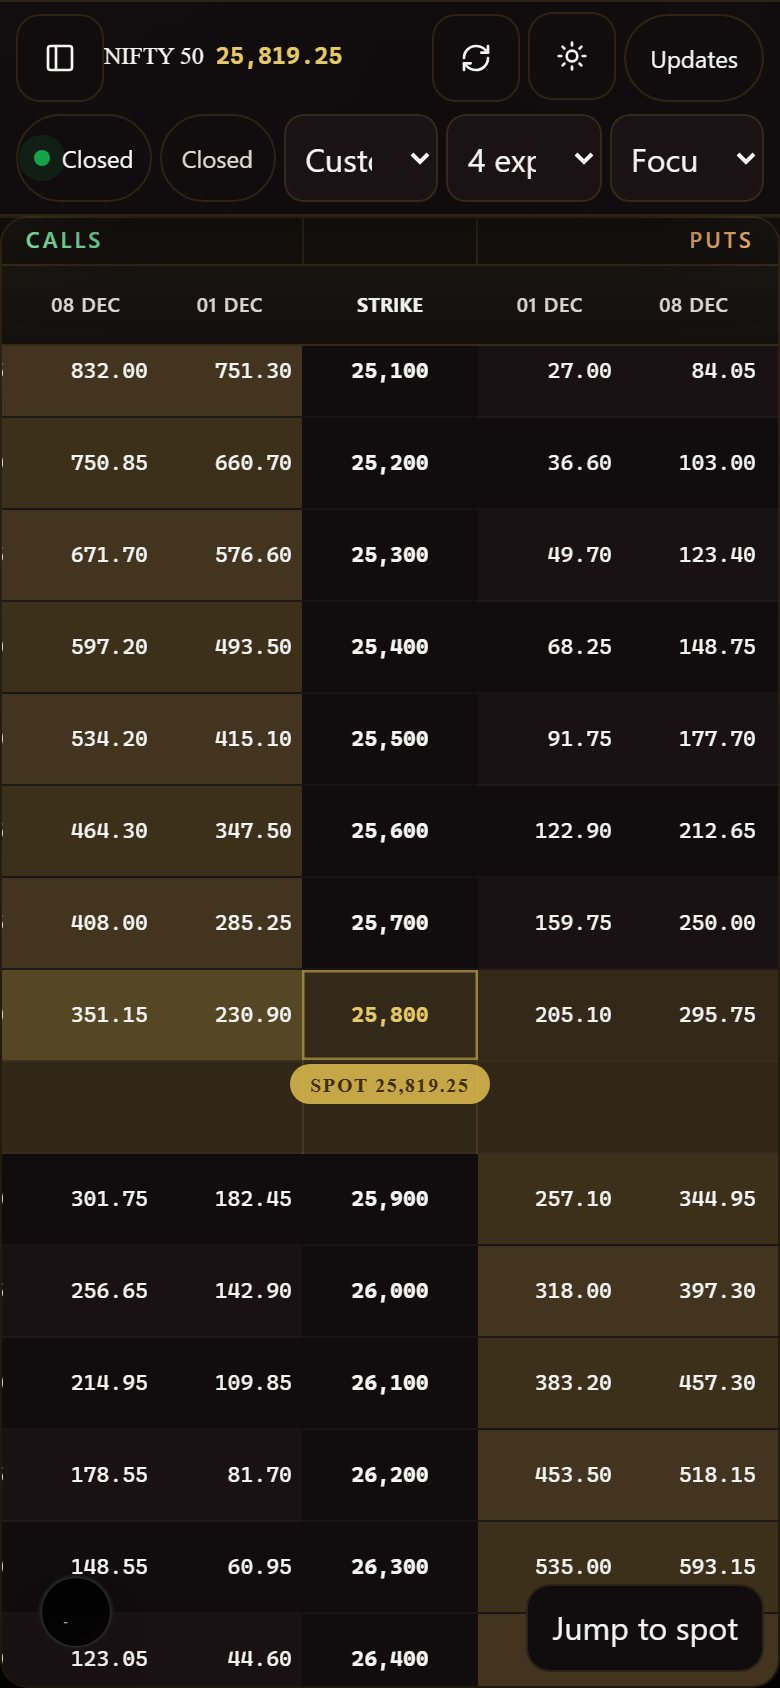
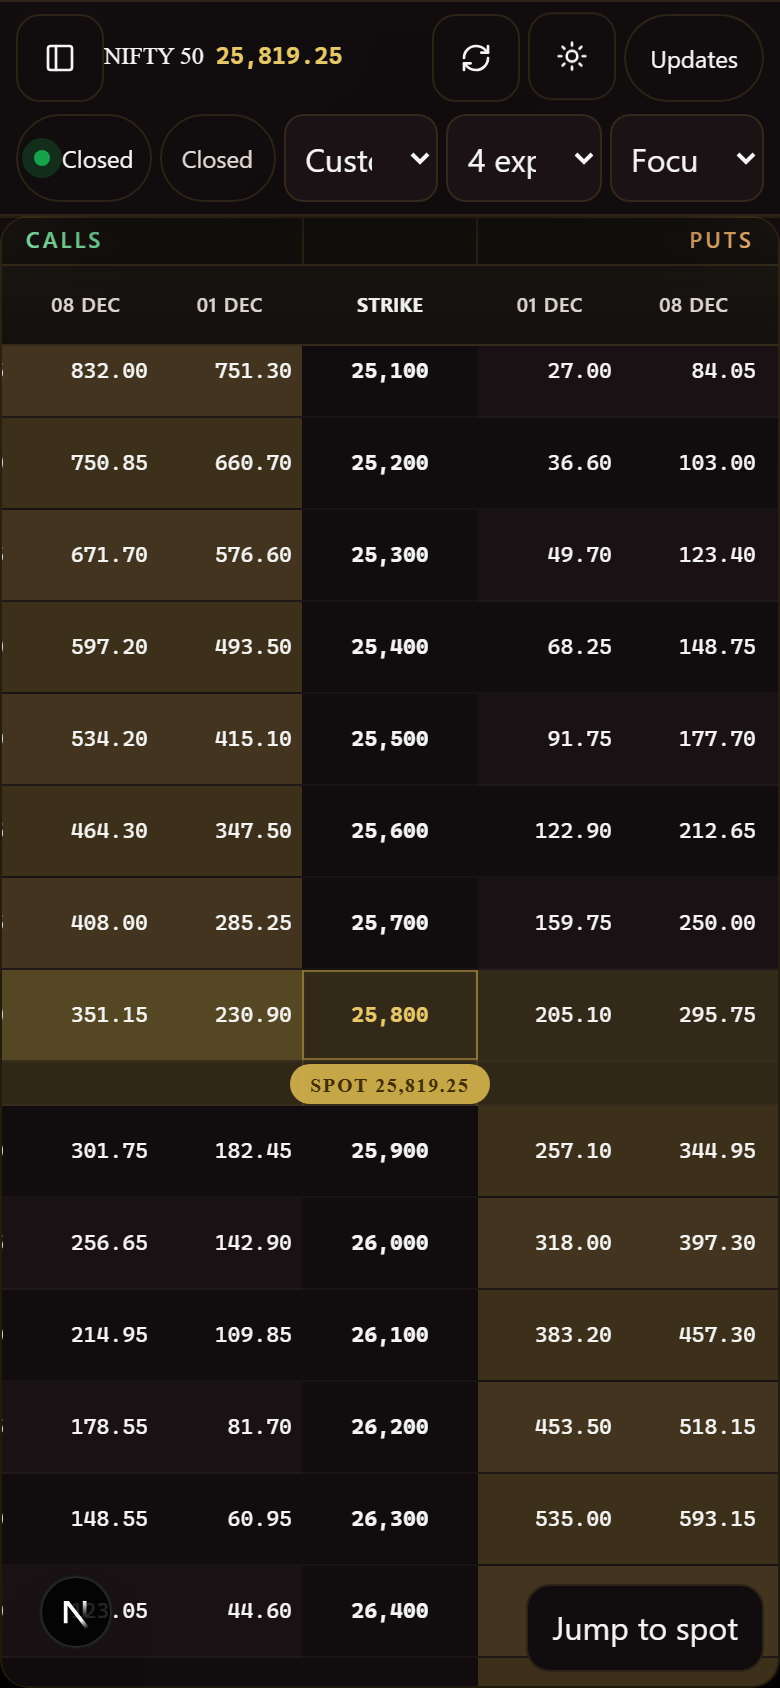
Show the spot bar when an equity spot lands on a listed strike.

Changed region(s): [[0.0, 0.6469, 0.6154, 0.9858], [0.8615, 0.6777, 0.9846, 0.955], [0.6769, 0.6777, 0.8, 0.955]]

diff --git a/web/src/components/option-chain-table.tsx b/web/src/components/option-chain-table.tsx
@@ -2,7 +2,7 @@
 
 import { Fragment, useEffect, useLayoutEffect, useMemo, useRef, useState, type ReactNode } from "react";
 import { columnHint, columnLabel, putColumns, visibleColumns } from "@/lib/columns";
-import { focusStrikes } from "@/lib/display";
+import { focusStrikes, spotSlot } from "@/lib/display";
 import { yearFractionToExpiry } from "@/lib/expiry";
 import { blackScholes } from "@/lib/greeks";
 import { centerBook, chainOverflows, InwardChain, useChainWidth } from "@/components/inward-chain";
@@ -161,16 +161,17 @@ export function OptionChainTable({
     centerBook(spotStrike);
   }, [density, pin, rows.length, snapshot.expiry, snapshot.symbol, spotStrike]);
 
+  const spotPlace = spotSlot(rows.map((row) => row.strike), snapshot.spot);
   const lineProps = (row: ChainRow, index: number) => {
-    const previous = rows[index - 1];
     const spot = snapshot.spot;
-    const showSpot = spot != null && previous != null && previous.strike < spot && row.strike > spot;
+    const showSpot = spotPlace?.index === index && spotPlace.place === "before";
+    const showSpotAfter = spotPlace?.index === index && spotPlace.place === "after";
     const atSpot = row.strike === spotStrike;
     const callQuiet = !row.ce.volume;
     const putQuiet = !row.pe.volume;
     const itmCall = spot != null && row.strike < spot;
     const itmPut = spot != null && row.strike > spot;
-    return { previous, spot, showSpot, atSpot, callQuiet, putQuiet, itmCall, itmPut };
+    return { spot, showSpot, showSpotAfter, atSpot, callQuiet, putQuiet, itmCall, itmPut };
   };
 
   if (pin) {
@@ -192,7 +193,7 @@ export function OptionChainTable({
           </th>
         ))}
         rows={rows.map((row, index) => {
-          const { spot, showSpot, atSpot, callQuiet, putQuiet, itmCall, itmPut } = lineProps(row, index);
+          const { spot, showSpot, showSpotAfter, atSpot, callQuiet, putQuiet, itmCall, itmPut } = lineProps(row, index);
           return {
             key: String(row.strike),
             id: `strike-${row.strike}`,
@@ -210,6 +211,7 @@ export function OptionChainTable({
               if (event.key === "Enter") onSelect(row);
             },
             spot: showSpot ? `Spot ${formatPrice(spot)}` : null,
+            spotAfter: showSpotAfter ? `Spot ${formatPrice(spot)}` : null,
             strike: formatNumber(row.strike, 0),
             call: callCols.map((key) => (
               <SideCell
@@ -283,14 +285,7 @@ export function OptionChainTable({
         </thead>
         <tbody>
           {rows.map((row, index) => {
-            const previous = rows[index - 1];
-            const spot = snapshot.spot;
-            const showSpot = spot != null && previous != null && previous.strike < spot && row.strike > spot;
-            const atSpot = row.strike === spotStrike;
-            const callQuiet = !row.ce.volume;
-            const putQuiet = !row.pe.volume;
-            const itmCall = spot != null && row.strike < spot;
-            const itmPut = spot != null && row.strike > spot;
+            const { spot, showSpot, showSpotAfter, atSpot, callQuiet, putQuiet, itmCall, itmPut } = lineProps(row, index);
             const span = callCols.length + peCols.length + 1;
             return (
               <Fragment key={row.strike}>
@@ -351,6 +346,13 @@ export function OptionChainTable({
                     />
                   ))}
                 </tr>
+                {showSpotAfter ? (
+                  <tr className="spot-marker" data-testid="spot-marker">
+                    <td colSpan={span}>
+                      <span>Spot {formatPrice(spot)}</span>
+                    </td>
+                  </tr>
+                ) : null}
               </Fragment>
             );
           })}

diff --git a/web/src/components/inward-chain.tsx b/web/src/components/inward-chain.tsx
@@ -11,6 +11,7 @@ export type InwardRow = {
   onClick?: () => void;
   onKeyDown?: (event: React.KeyboardEvent<HTMLTableRowElement>) => void;
   spot?: string | null;
+  spotAfter?: string | null;
   call: ReactNode;
   strike: ReactNode;
   put: ReactNode;
@@ -93,7 +94,7 @@ export function InwardChain({
     hostRef(node);
   }, [hostRef]);
 
-  const spotText = rows.find((line) => line.spot)?.spot ?? "";
+  const spotText = rows.find((line) => line.spot)?.spot ?? rows.find((line) => line.spotAfter)?.spotAfter ?? "";
 
   useLayoutEffect(() => {
     const root = rootRef.current;
@@ -261,10 +262,10 @@ export function InwardChain({
     };
   }, [layoutKey, spotText]);
 
-  const spotRow = (line: InwardRow, span: number, label: boolean) =>
-    line.spot ? (
+  const spotRow = (text: string | null | undefined, span: number, label: boolean) =>
+    text ? (
       <tr className="spot-marker" data-testid={label ? "spot-marker" : undefined}>
-        <td colSpan={span}>{label ? <span>{line.spot}</span> : null}</td>
+        <td colSpan={span}>{label ? <span>{text}</span> : null}</td>
       </tr>
     ) : null;
 
@@ -276,9 +277,9 @@ export function InwardChain({
       data-inward="true"
       data-compact={compact ? "true" : undefined}
     >
-      {rows.some((line) => line.spot) ? (
+      {spotText ? (
         <div className="spot-float" aria-hidden="true">
-          <span>{rows.find((line) => line.spot)?.spot}</span>
+          <span>{spotText}</span>
         </div>
       ) : null}
       <div className="inward-captions side-labels">
@@ -317,7 +318,7 @@ export function InwardChain({
             <tbody>
               {rows.map((line) => (
                 <Fragment key={line.key}>
-                  {spotRow(line, callSpan, false)}
+                  {spotRow(line.spot, callSpan, false)}
                   <tr
                     className={line.className}
                     data-volume={line.volume}
@@ -325,6 +326,7 @@ export function InwardChain({
                   >
                     {line.call}
                   </tr>
+                  {spotRow(line.spotAfter, callSpan, false)}
                 </Fragment>
               ))}
             </tbody>
@@ -335,7 +337,7 @@ export function InwardChain({
             <tbody>
               {rows.map((line) => (
                 <Fragment key={line.key}>
-                  {spotRow(line, 1, true)}
+                  {spotRow(line.spot, 1, true)}
                   <tr
                     id={line.id}
                     tabIndex={line.tabIndex}
@@ -346,6 +348,7 @@ export function InwardChain({
                   >
                     <td className="strike-cell">{line.strike}</td>
                   </tr>
+                  {spotRow(line.spotAfter, 1, true)}
                 </Fragment>
               ))}
             </tbody>
@@ -356,7 +359,7 @@ export function InwardChain({
             <tbody>
               {rows.map((line) => (
                 <Fragment key={line.key}>
-                  {spotRow(line, putSpan, false)}
+                  {spotRow(line.spot, putSpan, false)}
                   <tr
                     className={line.className}
                     data-volume={line.volume}
@@ -364,6 +367,7 @@ export function InwardChain({
                   >
                     {line.put}
                   </tr>
+                  {spotRow(line.spotAfter, putSpan, false)}
                 </Fragment>
               ))}
             </tbody>

diff --git a/web/src/components/custom-ltp-board.tsx b/web/src/components/custom-ltp-board.tsx
@@ -3,7 +3,7 @@
 import { Fragment, useEffect, useMemo, useRef, useState } from "react";
 
 import { centerBook, chainOverflows, InwardChain, useChainWidth } from "@/components/inward-chain";
-import { describeExpiry, focusStrikes, upcomingExpiries } from "@/lib/display";
+import { describeExpiry, focusStrikes, spotSlot, upcomingExpiries } from "@/lib/display";
 import { formatNumber, formatPrice } from "@/lib/format";
 import { applyLtpPatch, type LtpPatch, type LtpSlice } from "@/lib/ltp-slice";
 import { cn } from "@/lib/cn";
@@ -100,11 +100,15 @@ export function CustomLtpBoard({
 
   if (loaded.length === 0) return <div className="board-wait">Opening the expiries</div>;
 
+  const spotPlace = spotSlot(strikes, spot);
   const customRows = strikes.map((strike, index) => {
-    const previous = strikes[index - 1];
-    const showSpot = spot != null && previous != null && previous < spot && strike > spot;
     const nearest = columns.map((column) => chainRow(column.book, strike)).find((row) => row != null) ?? null;
-    return { strike, showSpot, nearest };
+    return {
+      strike,
+      showSpot: spotPlace?.index === index && spotPlace.place === "before",
+      showSpotAfter: spotPlace?.index === index && spotPlace.place === "after",
+      nearest,
+    };
   });
 
   if (pin) {
@@ -121,7 +125,7 @@ export function CustomLtpBoard({
         putHead={columns.map((column) => (
           <th key={`pe-${column.expiry}`} scope="col" className="pe-zone">{shortExpiry(column.expiry)}</th>
         ))}
-        rows={customRows.map(({ strike, showSpot, nearest }) => ({
+        rows={customRows.map(({ strike, showSpot, showSpotAfter, nearest }) => ({
           key: String(strike),
           id: `strike-${strike}`,
           className: cn("chain-row", strike === atm && "is-atm"),
@@ -129,6 +133,7 @@ export function CustomLtpBoard({
             if (nearest) onSelect(nearest);
           },
           spot: showSpot ? `Spot ${formatPrice(spot)}` : null,
+          spotAfter: showSpotAfter ? `Spot ${formatPrice(spot)}` : null,
           strike: formatNumber(strike, 0),
           call: callCols.map((column) => (
             <PriceCell
@@ -181,10 +186,7 @@ export function CustomLtpBoard({
           </tr>
         </thead>
         <tbody>
-          {strikes.map((strike, index) => {
-            const previous = strikes[index - 1];
-            const showSpot = spot != null && previous != null && previous < spot && strike > spot;
-            const nearest = columns.map((column) => chainRow(column.book, strike)).find((row) => row != null) ?? null;
+          {customRows.map(({ strike, showSpot, showSpotAfter, nearest }) => {
             return (
               <Fragment key={strike}>
                 {showSpot ? (
@@ -229,6 +231,13 @@ export function CustomLtpBoard({
                     />
                   ))}
                 </tr>
+                {showSpotAfter ? (
+                  <tr className="spot-marker" data-testid="spot-marker">
+                    <td colSpan={span}>
+                      <span>Spot {formatPrice(spot)}</span>
+                    </td>
+                  </tr>
+                ) : null}
               </Fragment>
             );
           })}

diff --git a/web/src/lib/expiry.test.ts b/web/src/lib/expiry.test.ts
@@ -1,6 +1,6 @@
 import { describe, expect, it } from "vitest";
 
-import { focusStrikes, groupExpiries, upcomingExpiries } from "./display";
+import { focusStrikes, groupExpiries, spotSlot, upcomingExpiries } from "./display";
 import { blackScholes } from "./greeks";
 import { joinSetCookies } from "./http";
 import { daysToExpiry, isListedExpiryLive, toIstIso, yearFractionToExpiry } from "./expiry";
@@ -29,6 +29,16 @@ describe("expiry and session", () => {
   it("keeps the listed equity strikes in spot focus", () => {
     const strikes = [2400, 2450, 2500, 2550, 2600, 2650];
     expect(focusStrikes(strikes, 2520, "near", 2500, "EQUITY")).toEqual(strikes);
+  });
+
+  it("places the spot bar on an exact equity strike and outside the book", () => {
+    const strikes = [2360, 2380, 2400];
+    expect(spotSlot(strikes, 2380)).toEqual({ index: 1, place: "before" });
+    expect(spotSlot(strikes, 2370)).toEqual({ index: 1, place: "before" });
+    expect(spotSlot(strikes, 1700)).toEqual({ index: 0, place: "before" });
+    expect(spotSlot(strikes, 3000)).toEqual({ index: 2, place: "after" });
+    expect(spotSlot(strikes, null)).toBeNull();
+    expect(spotSlot([], 2380)).toBeNull();
   });
 
   it("keeps the next upcoming expiries in date order", () => {

diff --git a/web/src/lib/display.ts b/web/src/lib/display.ts
@@ -136,6 +136,24 @@ export function upcomingExpiry(expiries: string[], current: string, now = new Da
   return pool[0] ?? "";
 }
 
+/**
+ * Where the spot bar sits in a sorted strike list.
+ * On the strike when the spot lands on one, between strikes otherwise,
+ * and above the first or below the last when the spot is outside the book.
+ */
+export function spotSlot(
+  strikes: number[],
+  spot: number | null,
+): { index: number; place: "before" | "after" } | null {
+  if (spot == null || !Number.isFinite(spot) || strikes.length === 0) return null;
+  for (let index = 0; index < strikes.length; index += 1) {
+    const strike = strikes[index]!;
+    const previous = index === 0 ? null : strikes[index - 1]!;
+    if ((previous == null || previous < spot) && strike >= spot) return { index, place: "before" };
+  }
+  return { index: strikes.length - 1, place: "after" };
+}
+
 /** Spot Focus is 18 strikes below the at-the-money strike and 18 above it. Indexes step by 100. Equity keeps the listed strikes. */
 export function focusStrikes(
   strikes: number[],

diff --git a/web/src/app/globals.css b/web/src/app/globals.css
@@ -2150,8 +2150,8 @@ html.dark .inward-captions .pe-zone {
   line-height: 1.2;
 }
 
-.chain-scroll.inward .spot-marker,
-.chain-scroll.inward .spot-marker td {
+.chain-scroll.inward .chain-table tbody tr.spot-marker,
+.chain-scroll.inward .chain-table tbody tr.spot-marker td {
   height: 22px;
   max-height: 22px;
   padding: 0;
